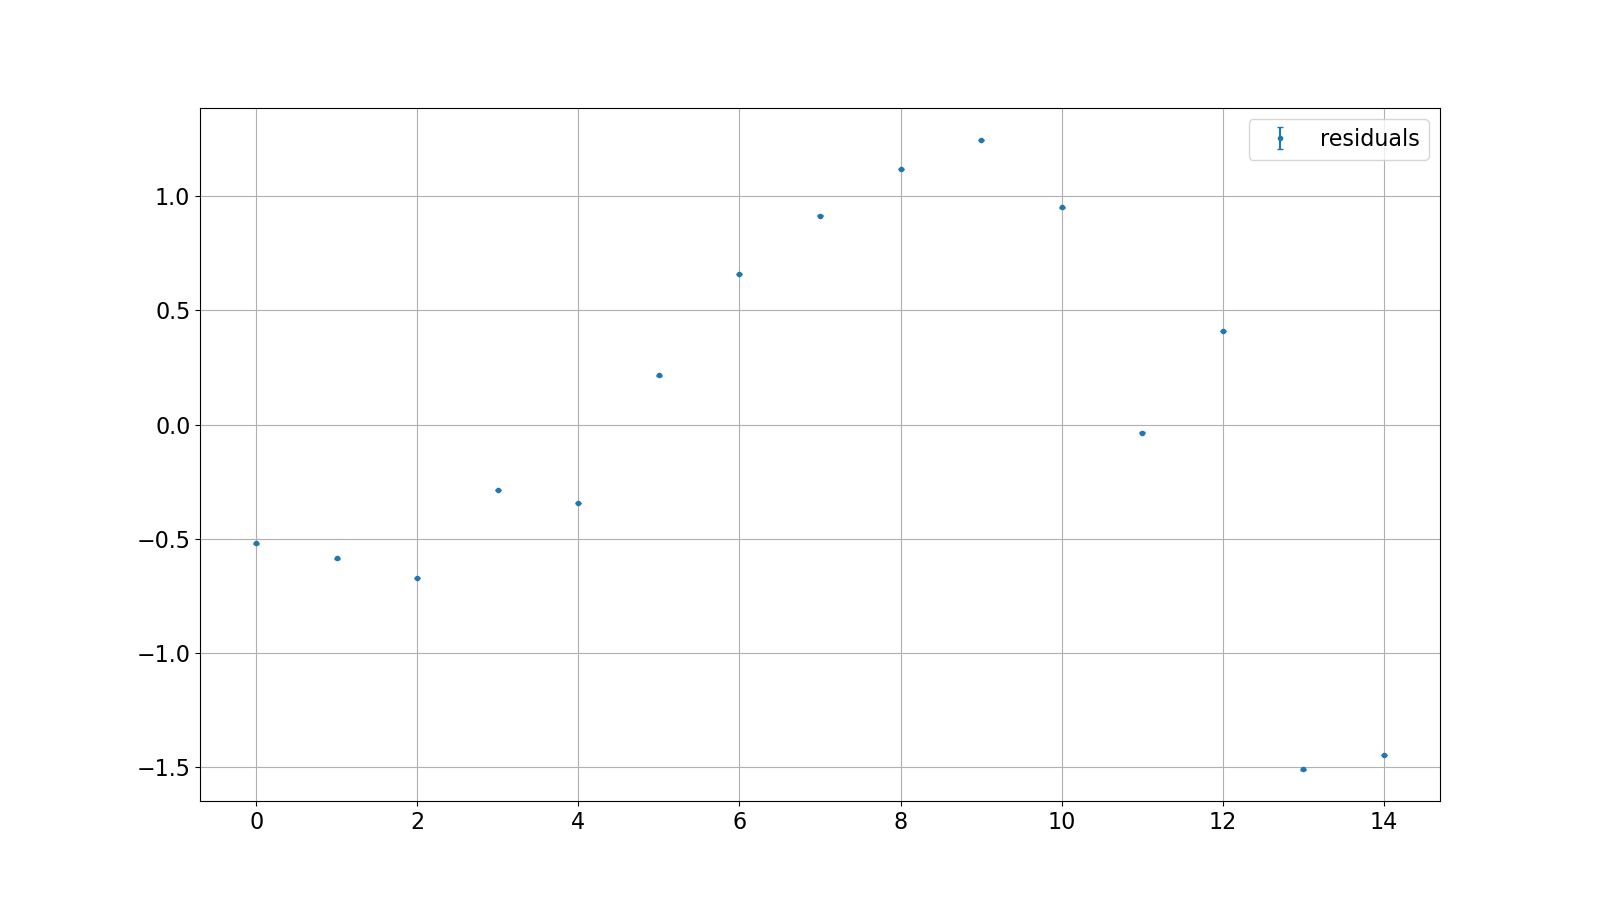
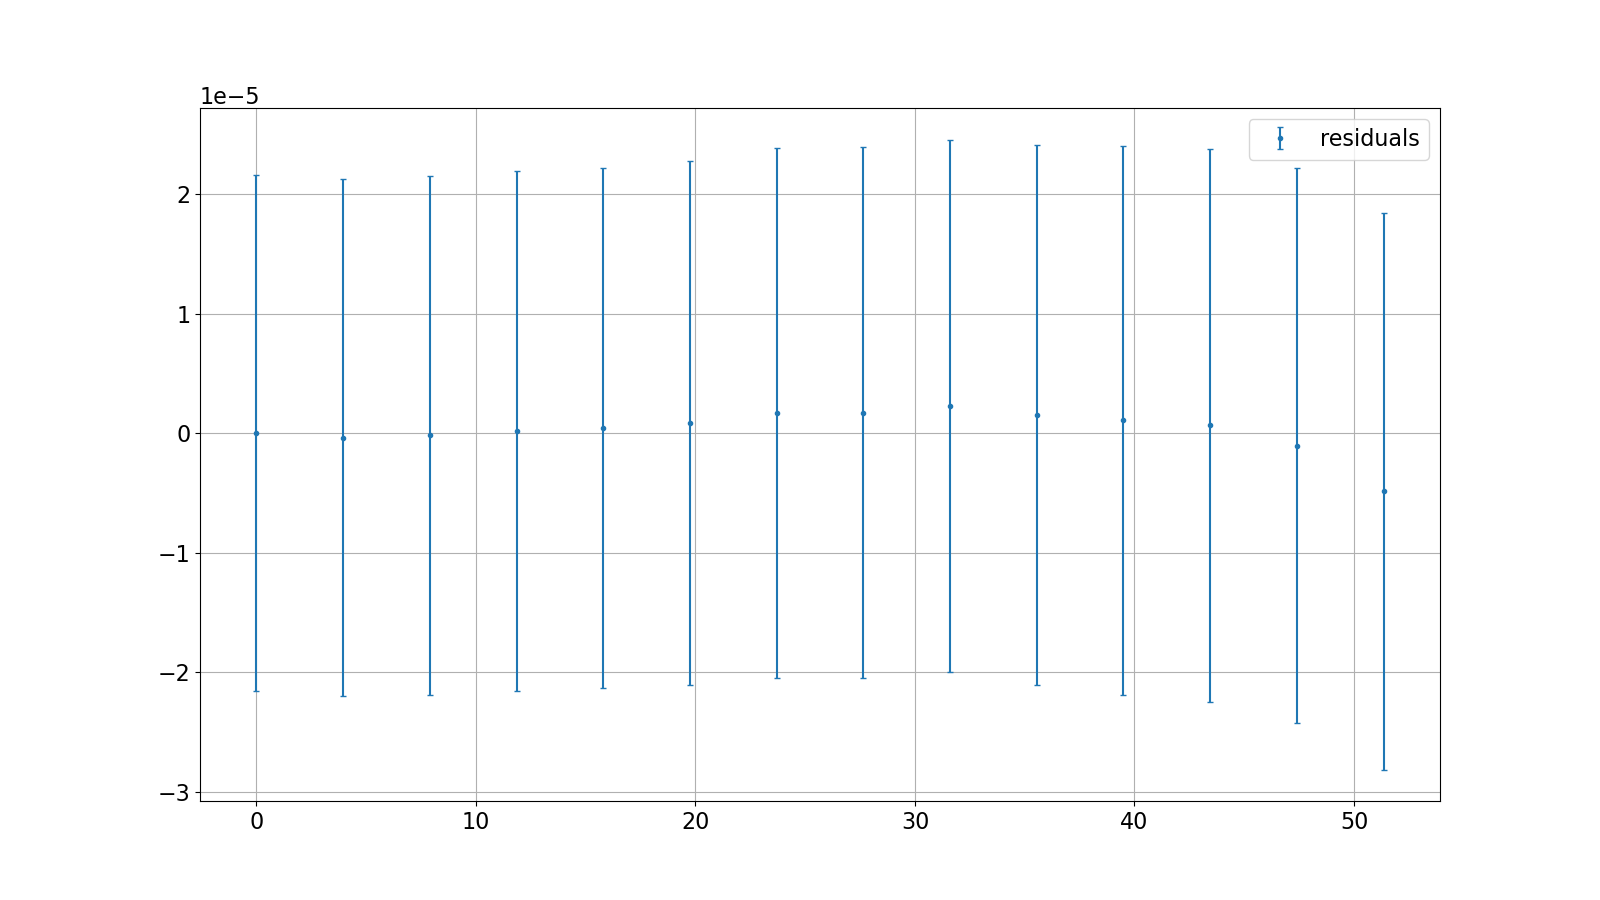
correct plots but need cleaning up, including theoretical line

diff --git a/main.py b/main.py
@@ -12,8 +12,12 @@ import fitting
 import data_loader
 import fit_models
 
+g = 9.804253 # m s^-2
+known_radius = 6378100
+theoretical_slope = -2 * g / known_radius
+
 data = data_loader.DataLoader('RadiusEarthData')
-model = fit_models.Linear()
+model = fit_models.Proportional()
 
 fit = fitting.Fitting(model, data.x, data.y, data.y_error)
 
@@ -21,13 +25,40 @@ fit = fitting.Fitting(model, data.x, data.y, data.y_error)
 fig, ax = plt.subplots(1, 1, figsize=(16,9))
 residuals_fig, residuals_ax = plt.subplots(1, 1, figsize=(16,9))
 
+x_for_theoretical_plot = np.linspace(min(data.x), max(data.x), 10000)
+y_for_theoretical_plot = theoretical_slope * x_for_theoretical_plot
+
+ax.plot(x_for_theoretical_plot, y_for_theoretical_plot, label='theoretical line', color='k')
 
 fit.scatter_plot_data_and_fit(ax)
-
 fit.plot_residuals(residuals_ax)
+
 
 fig.savefig('plots/fit_plot.png')
 residuals_fig.savefig('plots/residuals_plot.png')
 
-fig.show()
-residuals_fig.show()
+
+
+# fig.show()
+# residuals_fig.show()
+
+slope = fit.popt[0]
+slope_error = fit.parameter_errors[0]
+
+print(slope, slope_error)
+
+def R_from_slope(slope):
+        result = -2 * g / slope
+        return result
+
+def R_from_slope_error(slope, slope_error):
+        error = 2 * g / slope**2 * slope_error
+        return error
+
+R_best_guess = R_from_slope(slope)
+R_error = R_from_slope_error(slope, slope_error)
+
+print(R_best_guess, R_error)
+
+print('measured radius is ' + Output.print_with_uncertainty(R_best_guess, R_error))
+print(R_best_guess / known_radius)

diff --git a/fitting.py b/fitting.py
@@ -34,7 +34,7 @@ class Fitting():
 
     def scatter_plot_data_and_fit(self, ax, plot_fit=True, info_loc='upper left', legend_loc='upper right'):
 
-        Output.baseplot_errorbars(ax=ax, x=self.x, y=self.y_measured, yerr=self.y_error, xerr=self.x_error, label='data')
+        Output.baseplot_errorbars_with_markers(ax=ax, x=self.x, y=self.y_measured, yerr=self.y_error, xerr=self.x_error, label='data')
 
         if plot_fit:
             x_for_plotting_fit = np.linspace(self.x[0], self.x[-1], 10000)
@@ -54,6 +54,7 @@ class Fitting():
             ax.add_artist(ax_text)
 
         ax.legend(loc=legend_loc)
+        ax.grid()
 
         self.data_plot_xlim = ax.get_xlim()
 
@@ -61,7 +62,8 @@ class Fitting():
         cff = CurveFitFuncs()
 
         residuals = cff.residual(self.y_measured, self.y_predicted)
-        error_in_residuals = np.zeros_like(residuals) + 0.001 # np.sqrt((self.parameter_errors[0] * residuals) ** 2 + (self.parameter_errors[1]) ** 2 + (self.y_error) ** 2)  # ErrorPropagation.add(ErrorPropagation.add(self.parameter_errors[0] * residuals, self.parameter_errors[1]), self.y_error)
+        error_in_residuals = np.sqrt((self.parameter_errors[0] * self.x)**2 + (self.y_error)**2)
+
 
         Output.baseplot_errorbars_with_markers(ax=ax, x=self.x, y=residuals, yerr=error_in_residuals, xerr=None,
                                                label='residuals')

diff --git a/data_loader.py b/data_loader.py
@@ -6,8 +6,15 @@ cff = CurveFitFuncs()
 
 class DataLoader():
     def __init__(self, filename):
+
+        floor_to_r_factor = 3.95
+        mgal_to_g_factor = 1 / 980665
+
+        min_range = 0
+        max_range = -1
+
         directory = '%s.txt' % (filename)
-        self.full_data = np.loadtxt(directory, delimiter=',', dtype=float).T
+        self.full_data = np.loadtxt(directory, delimiter=',', dtype=float)[min_range:max_range].T
 
         floors = self.full_data[0]
         left_edge = self.full_data[1]
@@ -47,11 +54,9 @@ class DataLoader():
         delta_g_averages = np.array(delta_g_averages)
         delta_g_average_errors = np.array(delta_g_average_errors)
 
-        self.y = delta_g_averages
-        self.y_error = delta_g_average_errors
+        self.y = delta_g_averages * mgal_to_g_factor
+        self.y_error = delta_g_average_errors * mgal_to_g_factor
         
-        self.x = delta_rs
-        self.x_error = delta_r_errors
-
-        print(len(self.y), len(self.x))
+        self.x = delta_rs * floor_to_r_factor
+        self.x_error = delta_r_errors * floor_to_r_factor
 
